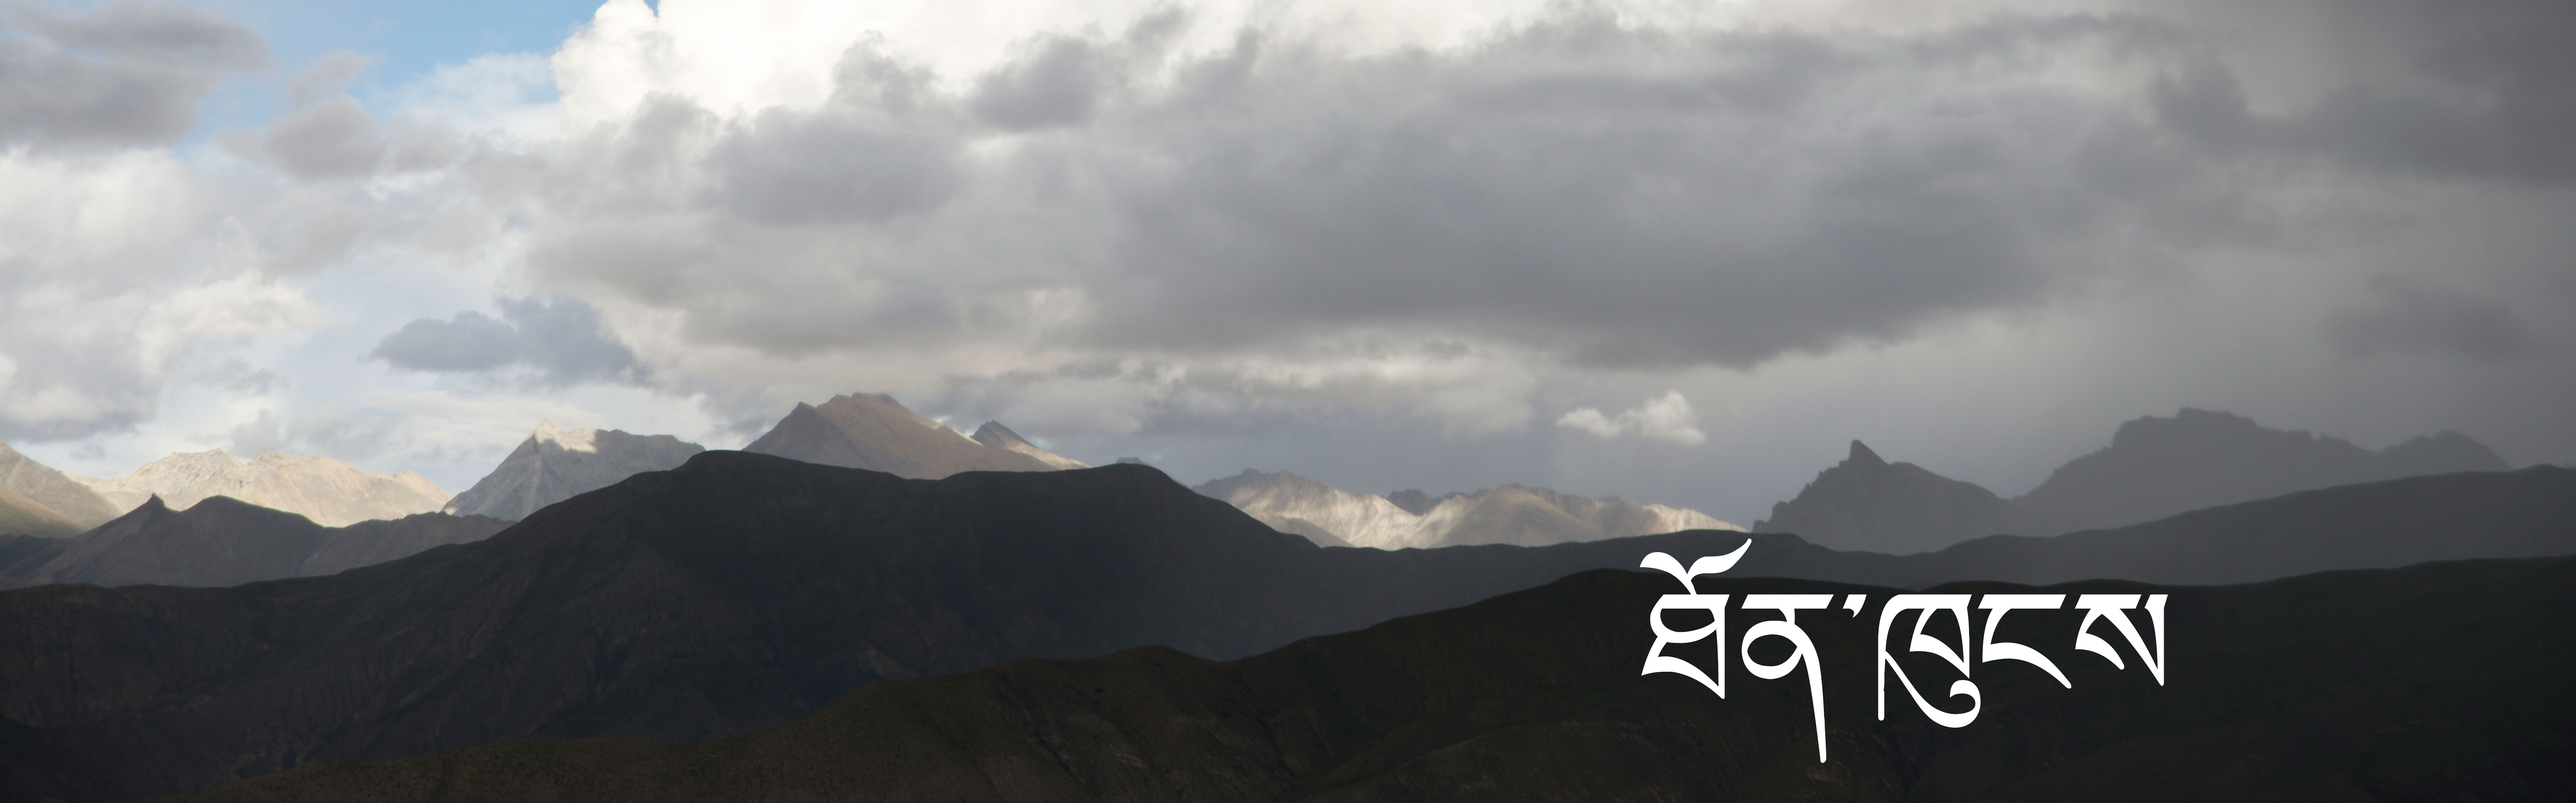
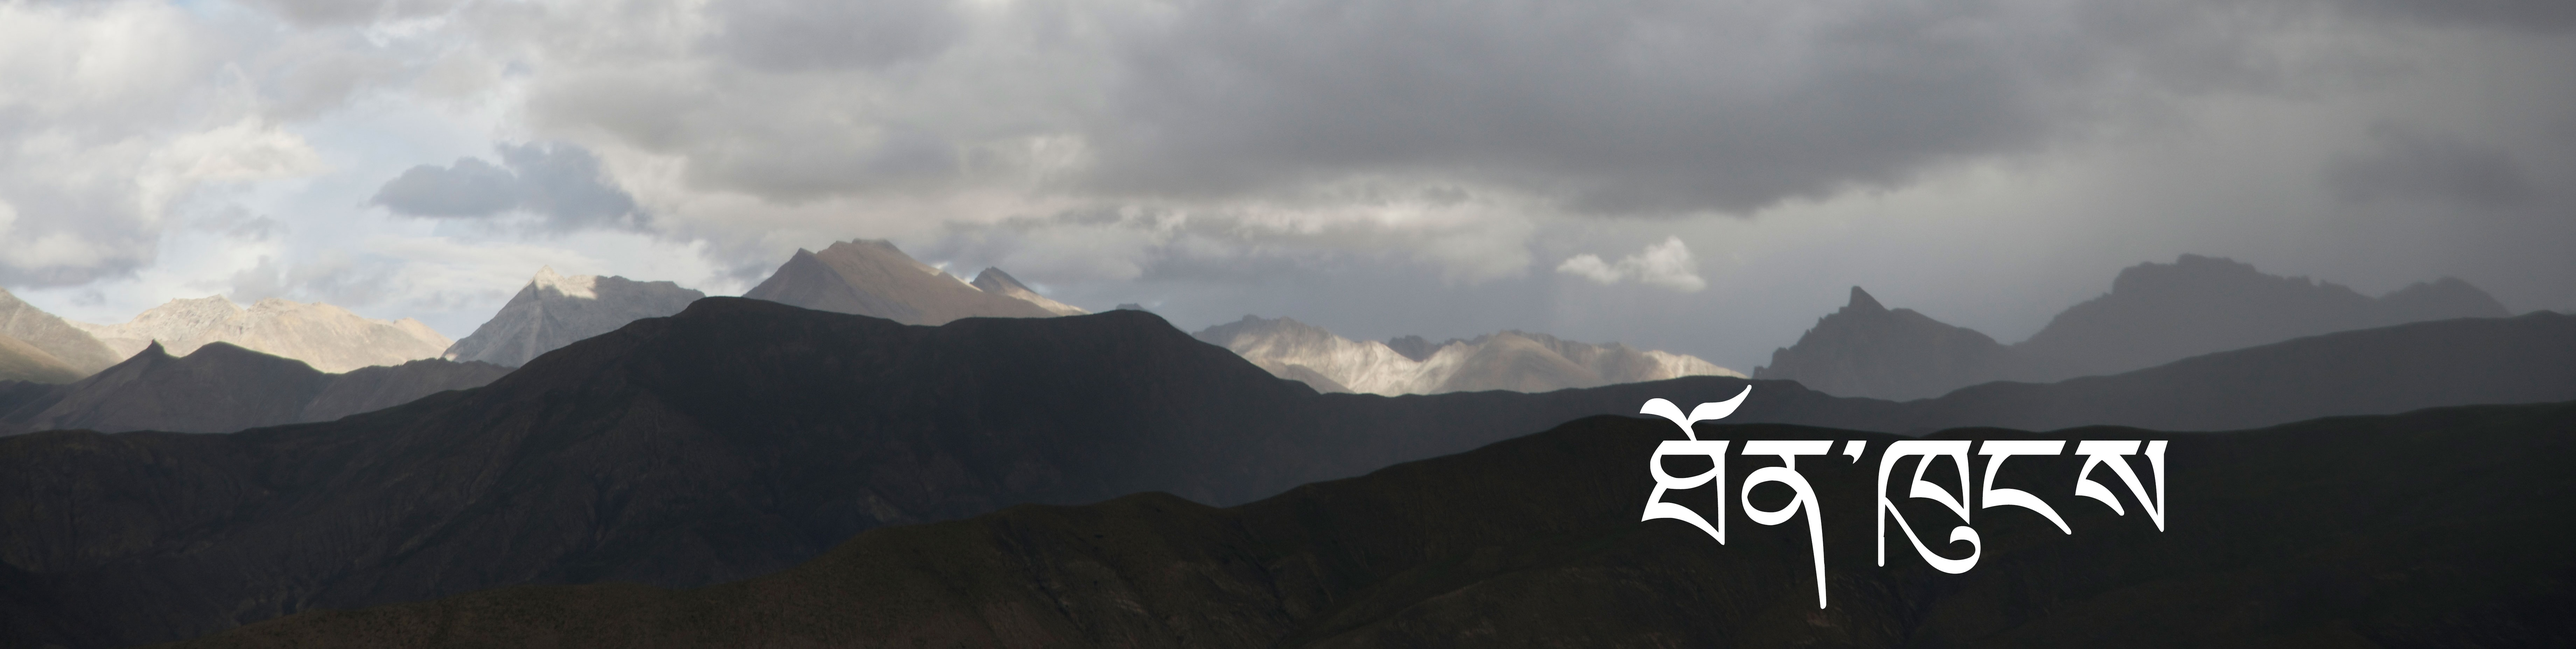
Link update

diff --git a/video.html b/video.html
@@ -15,12 +15,18 @@
             <ul>
                 <li><a href="index.html">Home</a></li>
                 <li><a href="/bible/index.html">Read Online</a></li>
-                <li><a href="study-guides.html" class="active">Resources</a></li>
-                <li><a href="index.html#media">Media</a></li>
+                <li><a href="/resources.html" class="active">Resources</a></li>
                 <li><a href="index.html#contact">Contact</a></li>
             </ul>
         </nav>
     </header>
+
+<section class="hero hero-video">
+    <div class="container">
+        <h1>སློབ་སྦྱོང་བགྱིད་རྒྱུ་ལམ་སྟོན།</h1>
+        <h2>Study Guides</h2>
+    </div>
+</section>
 
     <main class="container page-content">
         <section class="intro-text">

diff --git a/resources.html b/resources.html
@@ -15,8 +15,7 @@
             <ul>
                 <li><a href="index.html">Home</a></li>
                 <li><a href="/bible/index.html">Read Online</a></li>
-                <li><a href="study-guides.html" class="active">Resources</a></li>
-                <li><a href="index.html#media">Media</a></li>
+                <li><a href="/resources.html" class="active">Resources</a></li>
                 <li><a href="index.html#contact">Contact</a></li>
             </ul>
         </nav>

diff --git a/songs.html b/songs.html
@@ -15,8 +15,7 @@
             <ul>
                 <li><a href="index.html">Home</a></li>
                 <li><a href="/bible/index.html">Read Online</a></li>
-                <li><a href="study-guides.html" class="active">Resources</a></li>
-                <li><a href="index.html#media">Media</a></li>
+                <li><a href="/resources.html" class="active">Resources</a></li>
                 <li><a href="index.html#contact">Contact</a></li>
             </ul>
         </nav>

diff --git a/study-guides.html b/study-guides.html
@@ -15,8 +15,7 @@
             <ul>
                 <li><a href="index.html">Home</a></li>
                 <li><a href="/bible/index.html">Read Online</a></li>
-                <li><a href="study-guides.html" class="active">Resources</a></li>
-                <li><a href="index.html#media">Media</a></li>
+                <li><a href="resources.html" class="active">Resources</a></li>
                 <li><a href="index.html#contact">Contact</a></li>
             </ul>
         </nav>
